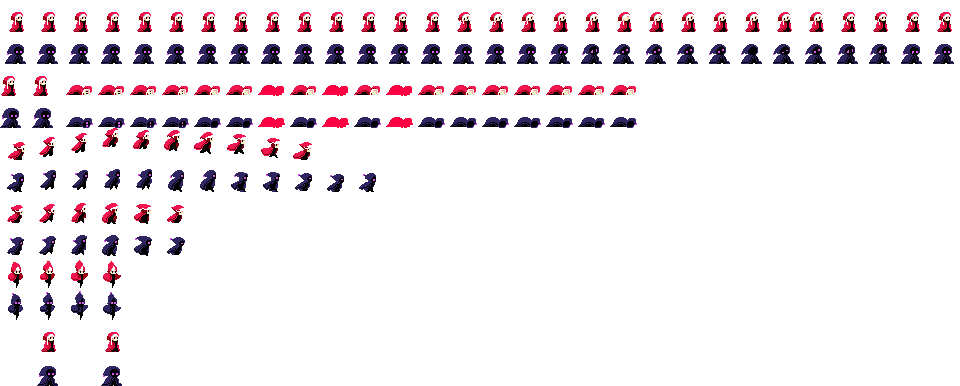
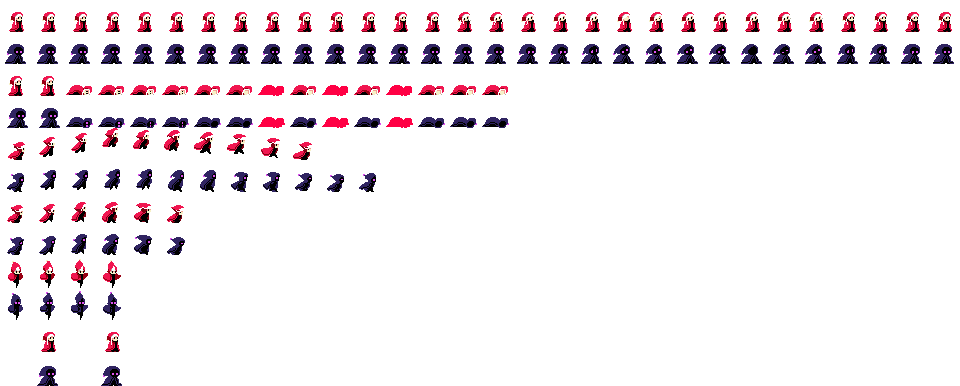
небольшие поправки пикселей в спрайтах и чуть ускорила анимацию

diff --git a/src/main/java/ru/nsu/klochikhina/entities/Player.java b/src/main/java/ru/nsu/klochikhina/entities/Player.java
@@ -44,7 +44,7 @@ public class Player extends Entity{
     private void updateAnimationTick() {
         aniTick++;
         
-        int aniSpeed = 14;
+        int aniSpeed = 10;
         
         if (aniTick >= aniSpeed) {
             aniTick = 0;
